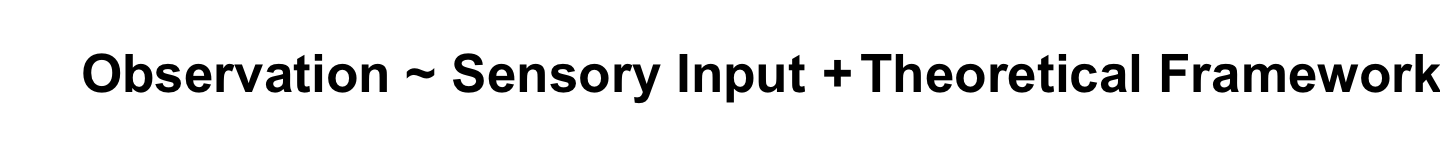
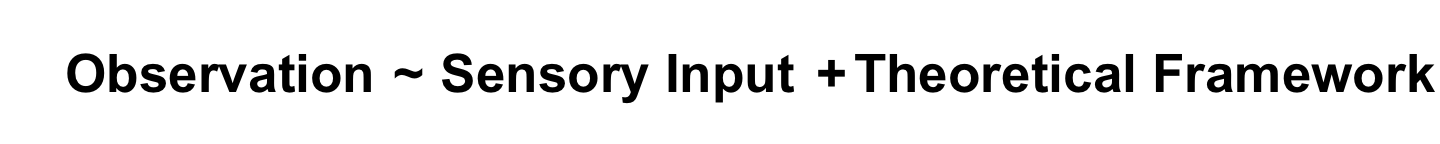
added

Changed region(s): [[0.0312, 0.3611, 1.0, 0.7222]]

diff --git a/docs/chapter-01-what-is-science.html b/docs/chapter-01-what-is-science.html
@@ -452,7 +452,7 @@ window.Quarto = {
 </header>
 
 
-<p><em>Last modified on 02. February 2026 at 14:24:26</em></p>
+<p><em>Last modified on 02. February 2026 at 14:37:09</em></p>
 <blockquote class="blockquote">
 <p><em>“This is your last chance. After this, there is no turning back. You take the blue pill - the story ends, you wake up in your bed and believe whatever you want to believe. You take the red pill - you stay in Wonderland and I show you how deep the rabbit hole goes.” — Morpheus, Matrix</em></p>
 </blockquote>
@@ -1494,7 +1494,7 @@ Figure&nbsp;1.11: Visualization of the relationship between energy and velocity.
 <span id="cb1-74"><a href="#cb1-74" aria-hidden="true" tabindex="-1"></a></span>
 <span id="cb1-75"><a href="#cb1-75" aria-hidden="true" tabindex="-1"></a><span class="fu">ggplot</span>() <span class="sc">+</span></span>
 <span id="cb1-76"><a href="#cb1-76" aria-hidden="true" tabindex="-1"></a>  <span class="do">##theme_minimal() +</span></span>
-<span id="cb1-77"><a href="#cb1-77" aria-hidden="true" tabindex="-1"></a>  <span class="fu">coord_cartesian</span>(<span class="at">xlim =</span> <span class="fu">c</span>(<span class="sc">-</span><span class="fl">10.5</span>, <span class="fl">10.5</span>)) <span class="sc">+</span></span>
+<span id="cb1-77"><a href="#cb1-77" aria-hidden="true" tabindex="-1"></a>  <span class="fu">coord_cartesian</span>(<span class="at">xlim =</span> <span class="fu">c</span>(<span class="sc">-</span><span class="fl">10.25</span>, <span class="fl">10.5</span>)) <span class="sc">+</span></span>
 <span id="cb1-78"><a href="#cb1-78" aria-hidden="true" tabindex="-1"></a>  <span class="fu">theme_void</span>() <span class="sc">+</span></span>
 <span id="cb1-79"><a href="#cb1-79" aria-hidden="true" tabindex="-1"></a>  <span class="fu">annotate</span>(<span class="st">"text"</span>, <span class="sc">-</span><span class="fl">4.8</span>, <span class="dv">0</span>, <span class="at">label =</span> <span class="st">"~"</span>, <span class="at">size =</span> <span class="dv">7</span>, <span class="at">fontface =</span> <span class="dv">2</span>, <span class="at">hjust =</span> <span class="st">"center"</span>) <span class="sc">+</span></span>
 <span id="cb1-80"><a href="#cb1-80" aria-hidden="true" tabindex="-1"></a>  <span class="fu">annotate</span>(<span class="st">"text"</span>, <span class="sc">-</span><span class="fl">10.25</span>, <span class="dv">0</span>, <span class="at">label =</span> <span class="st">"Observation"</span>, <span class="at">size =</span> <span class="dv">7</span>, <span class="at">fontface =</span> <span class="dv">2</span>, <span class="at">hjust =</span> <span class="st">"left"</span>) <span class="sc">+</span></span>
